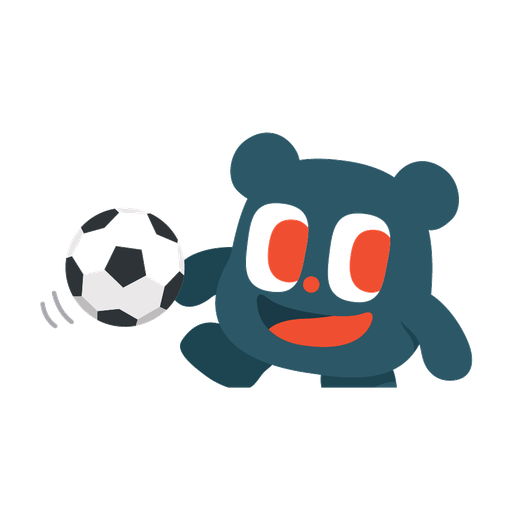
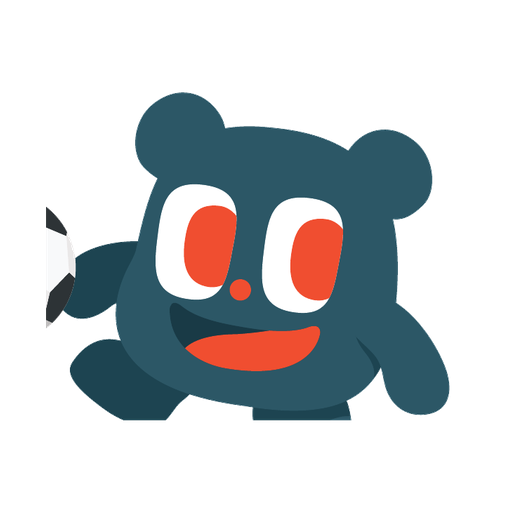
fix(assets): IP 캐릭터 추출 3대 원칙 적용 — 5종 전면 재추출
문제 해결:
1. 캐릭터 잘림 → 유채색 bbox 탐지로 본체 전체 포함 (규칙 #1)
2. 눈 속 흰색 투명화 → flood fill 로 외곽 흰색만 투명 (규칙 #2)
3. 색상 유지 (규칙 #3)

재추출:
- gongdossem.png — 눈 속 흰색 보존 · FAB 빨간 배경 비침 해결
- kk_idle.png — 검·방패·뿔·몸통 전체
- tory_idle.png — 양손 무기·토끼 귀 전체
- bob_idle.png — 곰돌이 + 축구공
- leon_idle.png — 도마뱀 + 망토 + 별·거품 소품

추가 수정:
- .game-placeholder flex 중앙 정렬 ("게임을 기다리고 있어요" 텍스트)
- .placeholder-love display:block + margin:0 auto

규칙 영구 저장: memory/feedback_ip_asset_extraction.md

Changed region(s): [[0.0625, 0.1562, 0.9375, 0.8438]]

diff --git a/앱_app/공용_public/css_스타일/components.css b/앱_app/공용_public/css_스타일/components.css
@@ -661,6 +661,11 @@
 .game-placeholder {
   text-align: center;
   color: var(--color-brown-soft);
+  display: flex;
+  flex-direction: column;
+  align-items: center;
+  justify-content: center;
+  width: 100%;
 }
 
 .game-iframe {
@@ -733,9 +738,15 @@
   width: 260px;
   height: auto;
   max-width: 80%;
-  margin-bottom: var(--space-4);
+  margin: 0 auto var(--space-4);
+  display: block;
   animation: float 2s ease-in-out infinite;
   image-rendering: -webkit-optimize-contrast;
+}
+
+.placeholder-text {
+  text-align: center;
+  width: 100%;
 }
 
 .placeholder-text {
